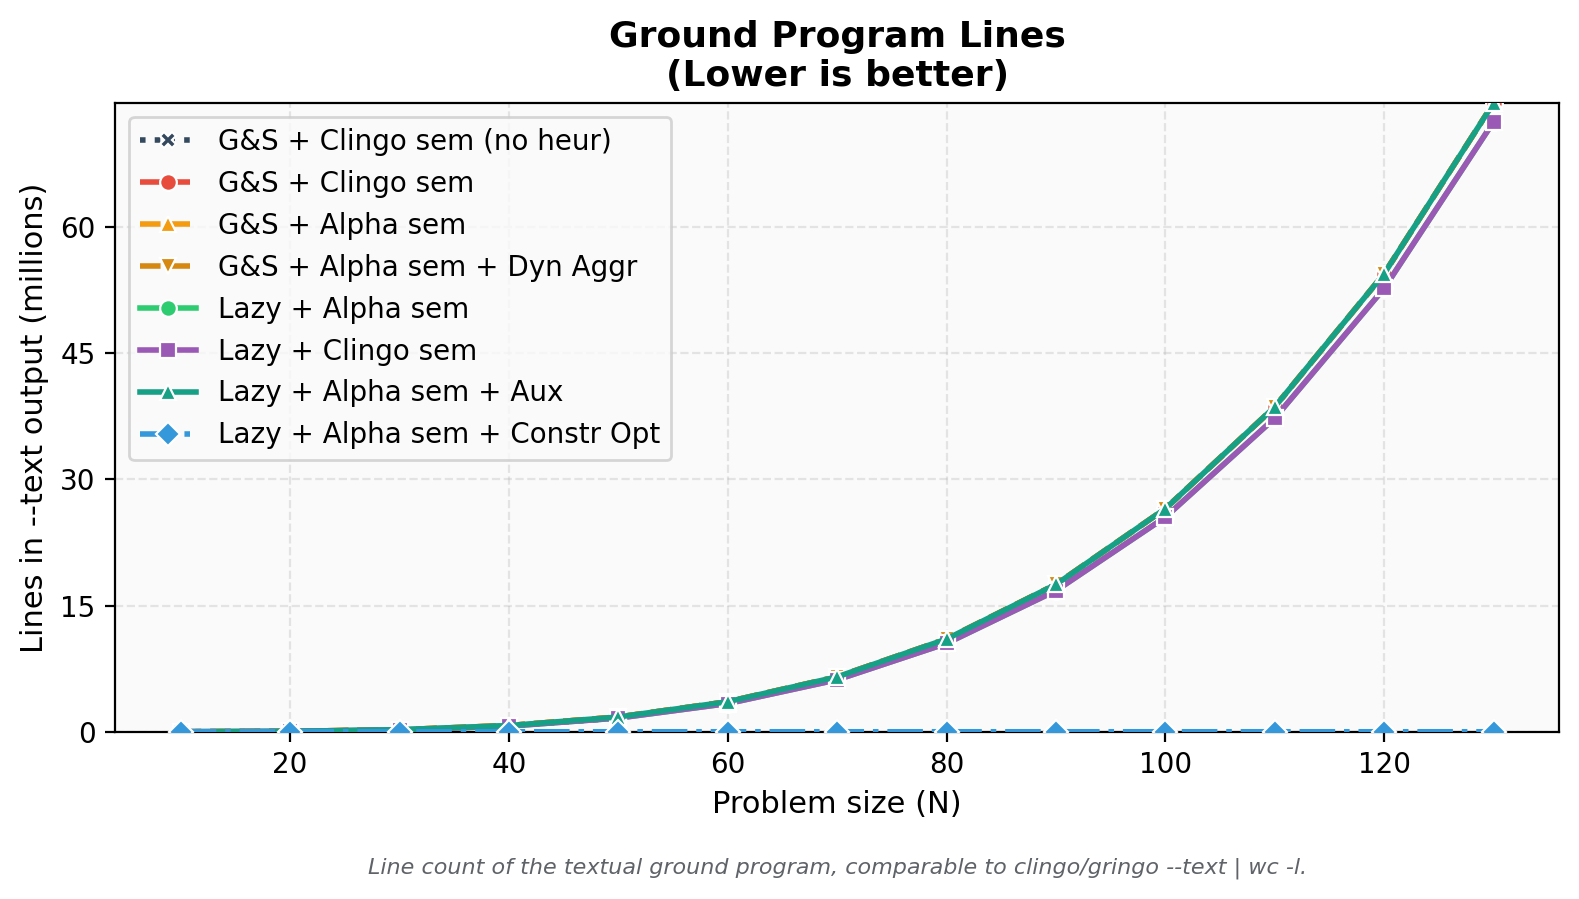
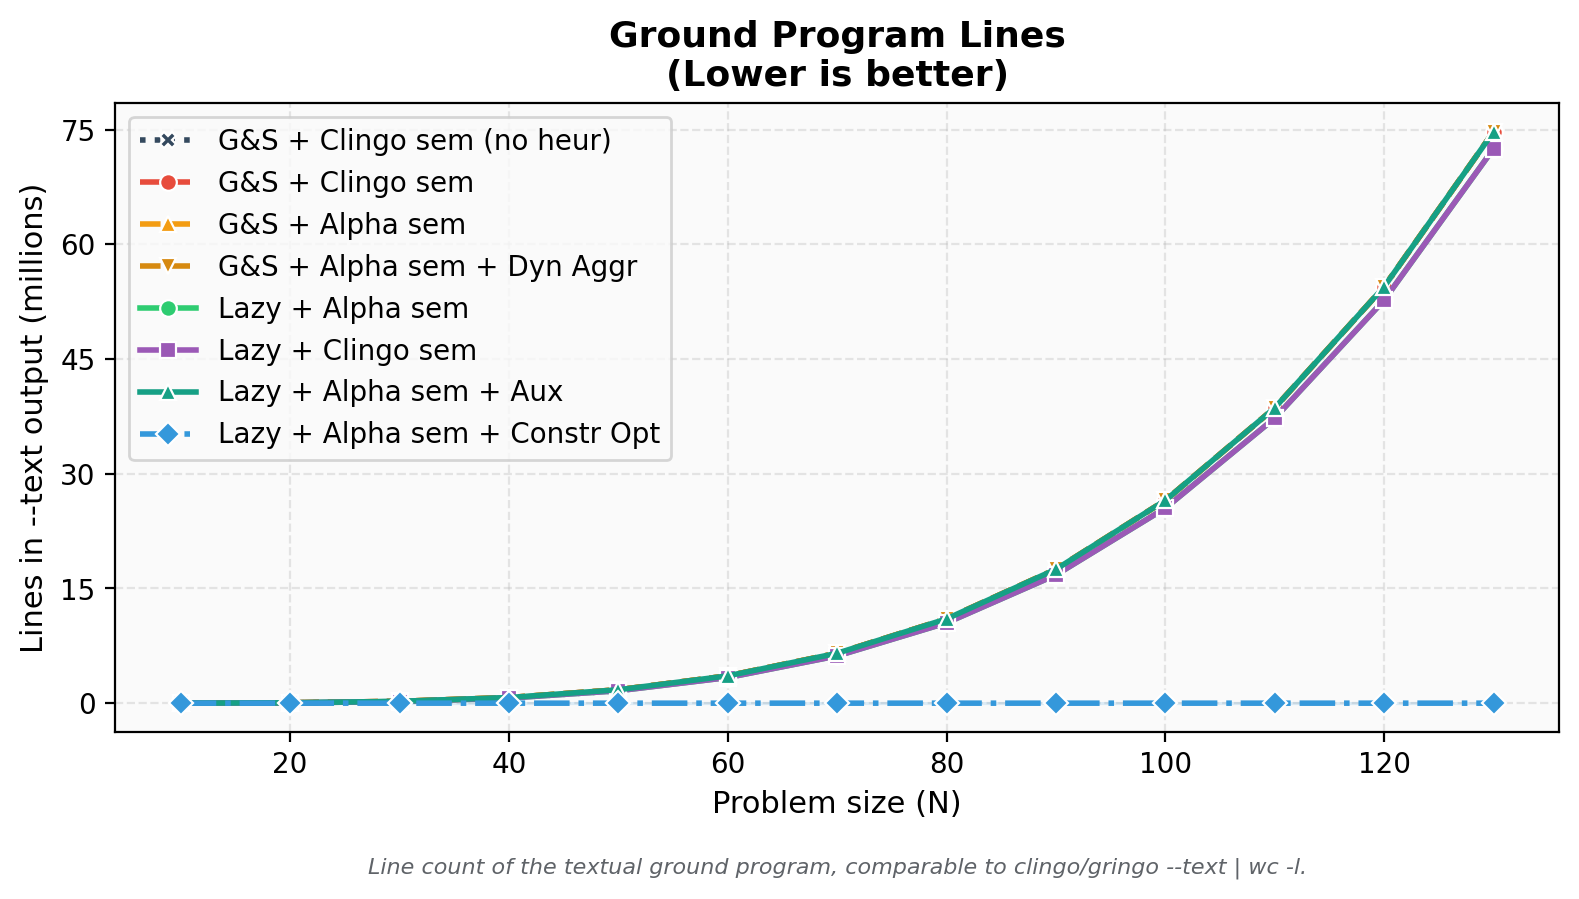
dai

diff --git a/test_folder/tools/gen_graphs.py b/test_folder/tools/gen_graphs.py
@@ -534,7 +534,6 @@ ENDPOINT_LABEL_METRICS = {
 ENDPOINT_LABEL_MIN_GAP_POINTS = 9.0
 SHARED_Y_SCALE_METRIC_GROUPS = (
     ("ground_heuristics", "ground_lazy_heuristic_facts"),
-    ("ground_lines", "variables"),
 )
 VARIANT_LINESTYLES = [
     "-",
@@ -723,9 +722,6 @@ def _shared_y_scale_limits(stats: dict, theme: dict, metrics) -> tuple | None:
 
     if not has_value:
         return None
-
-    if set(metrics) == {"ground_lines", "variables"}:
-        return min(0.0, min_value), max_value
 
     span = max_value - min_value
     pad = max(span * 0.05, max_value * 0.02, 1.0)
